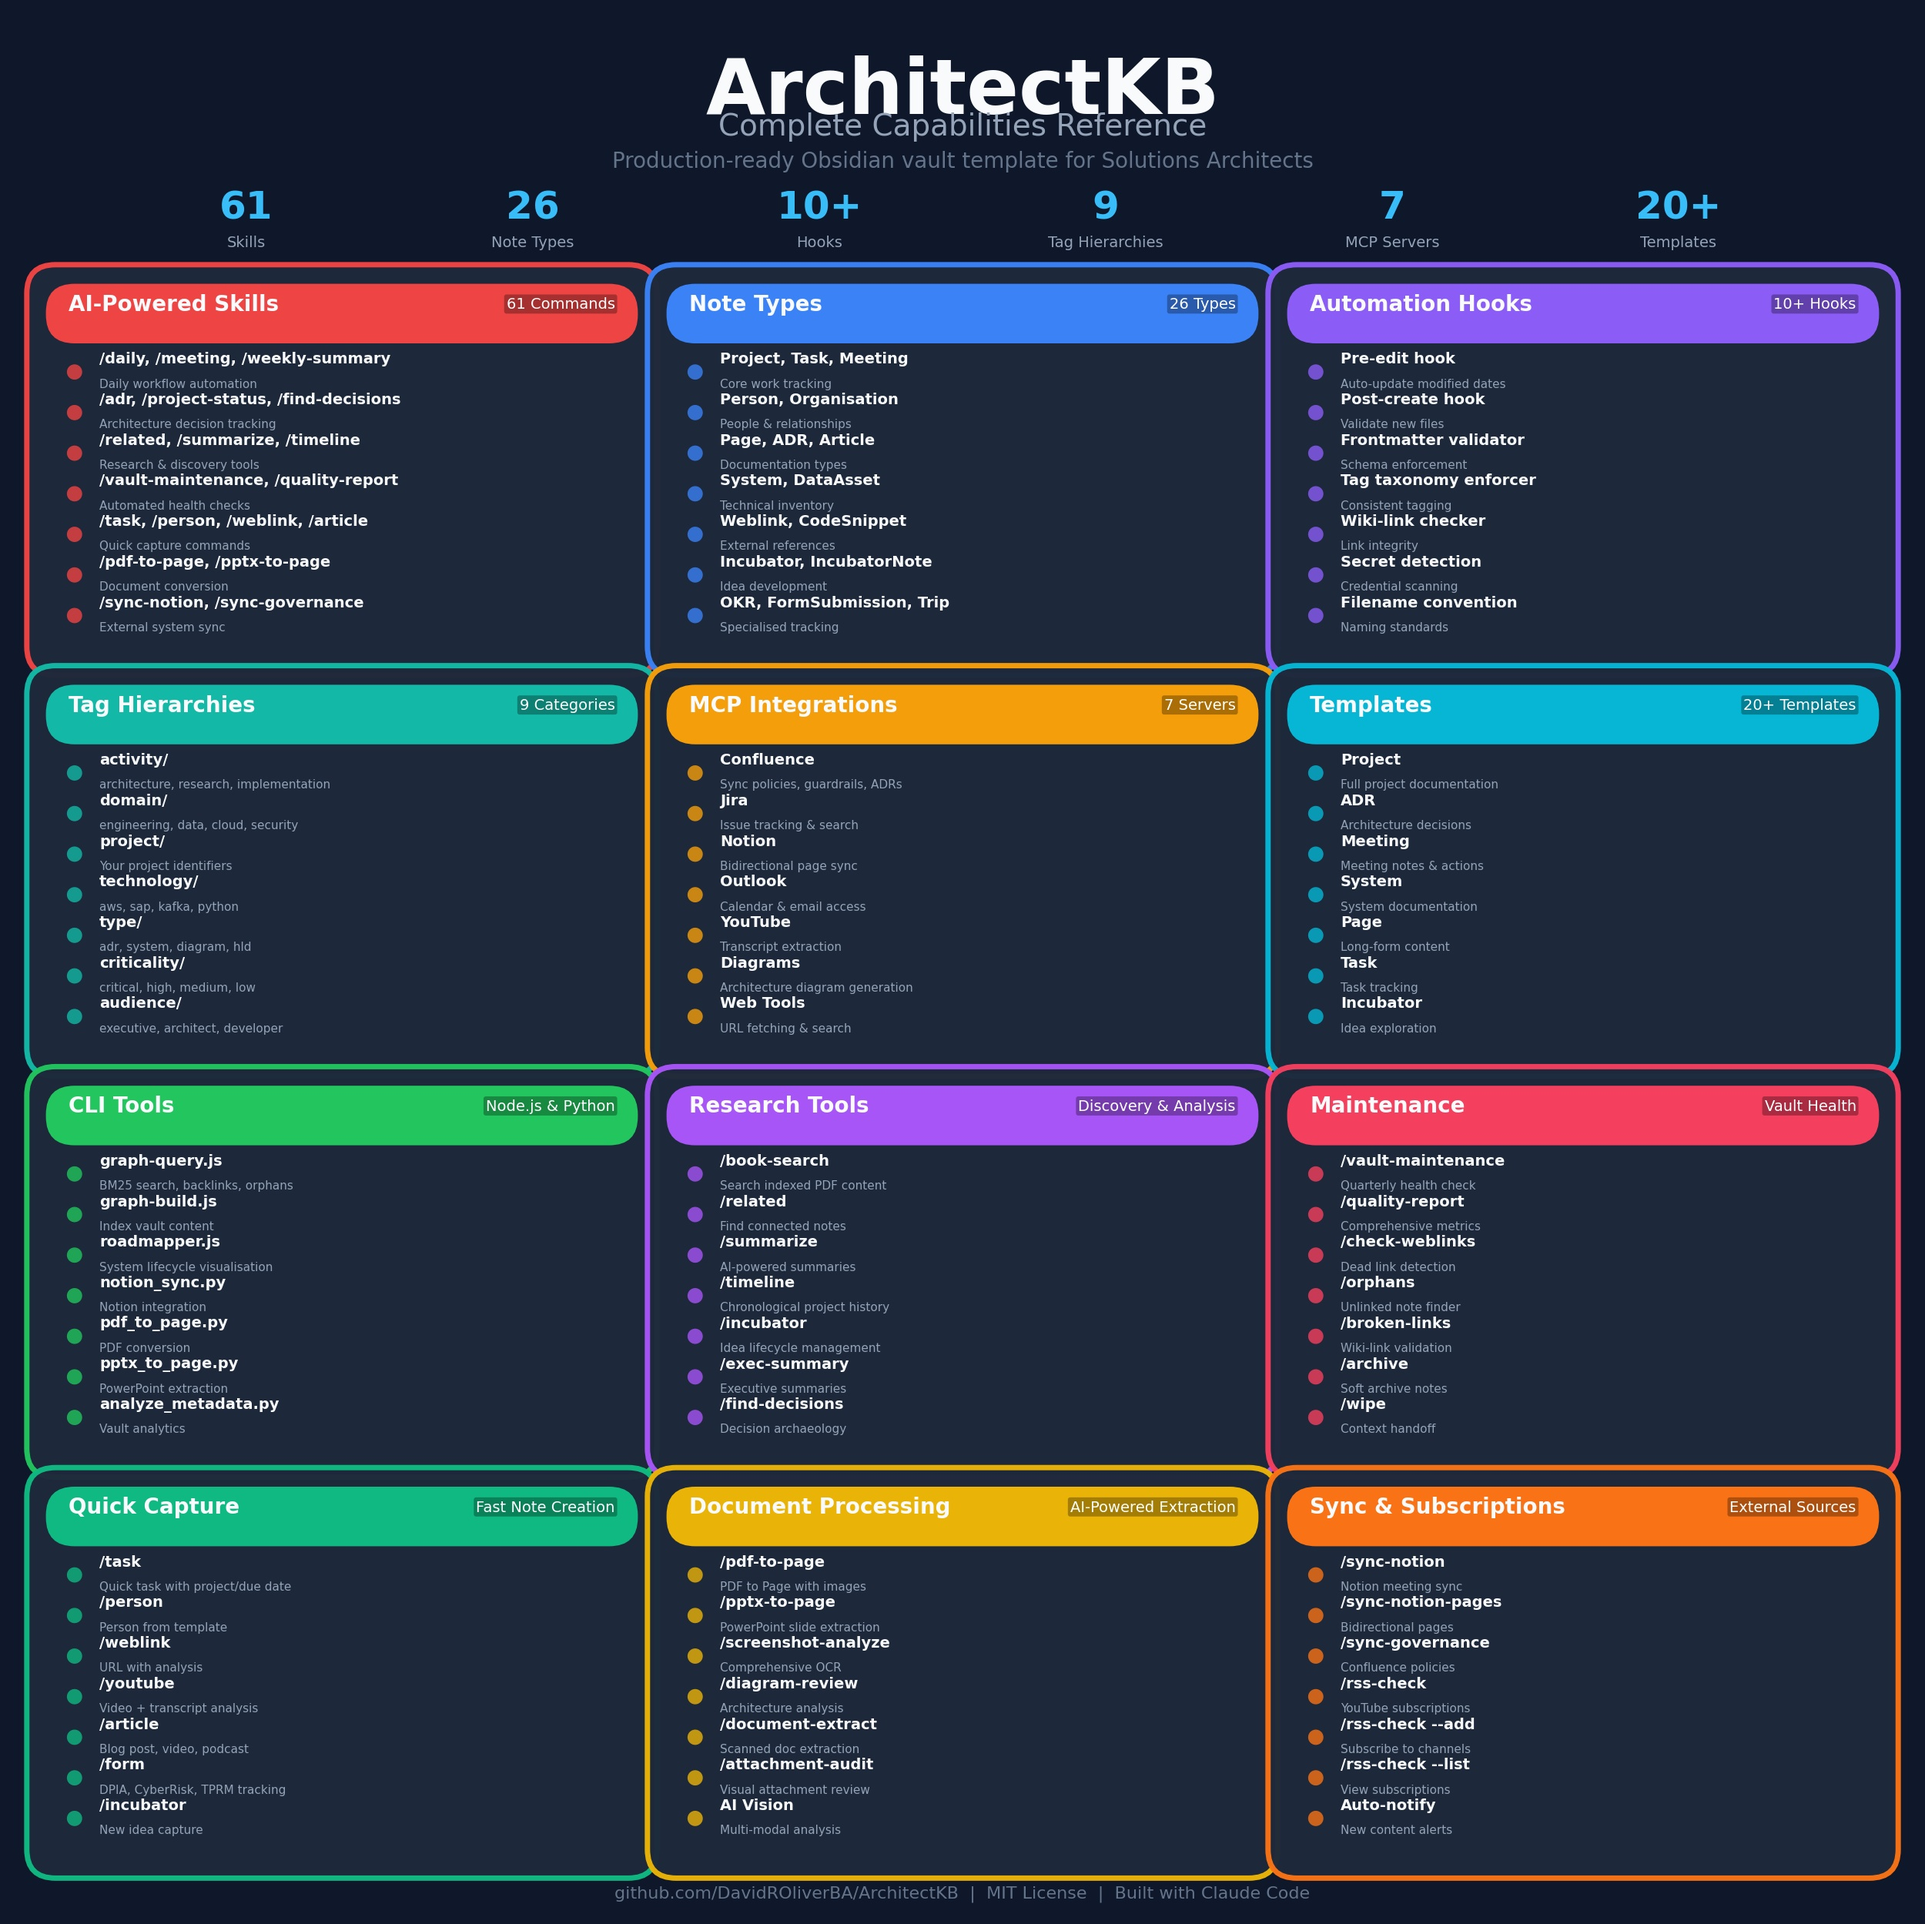
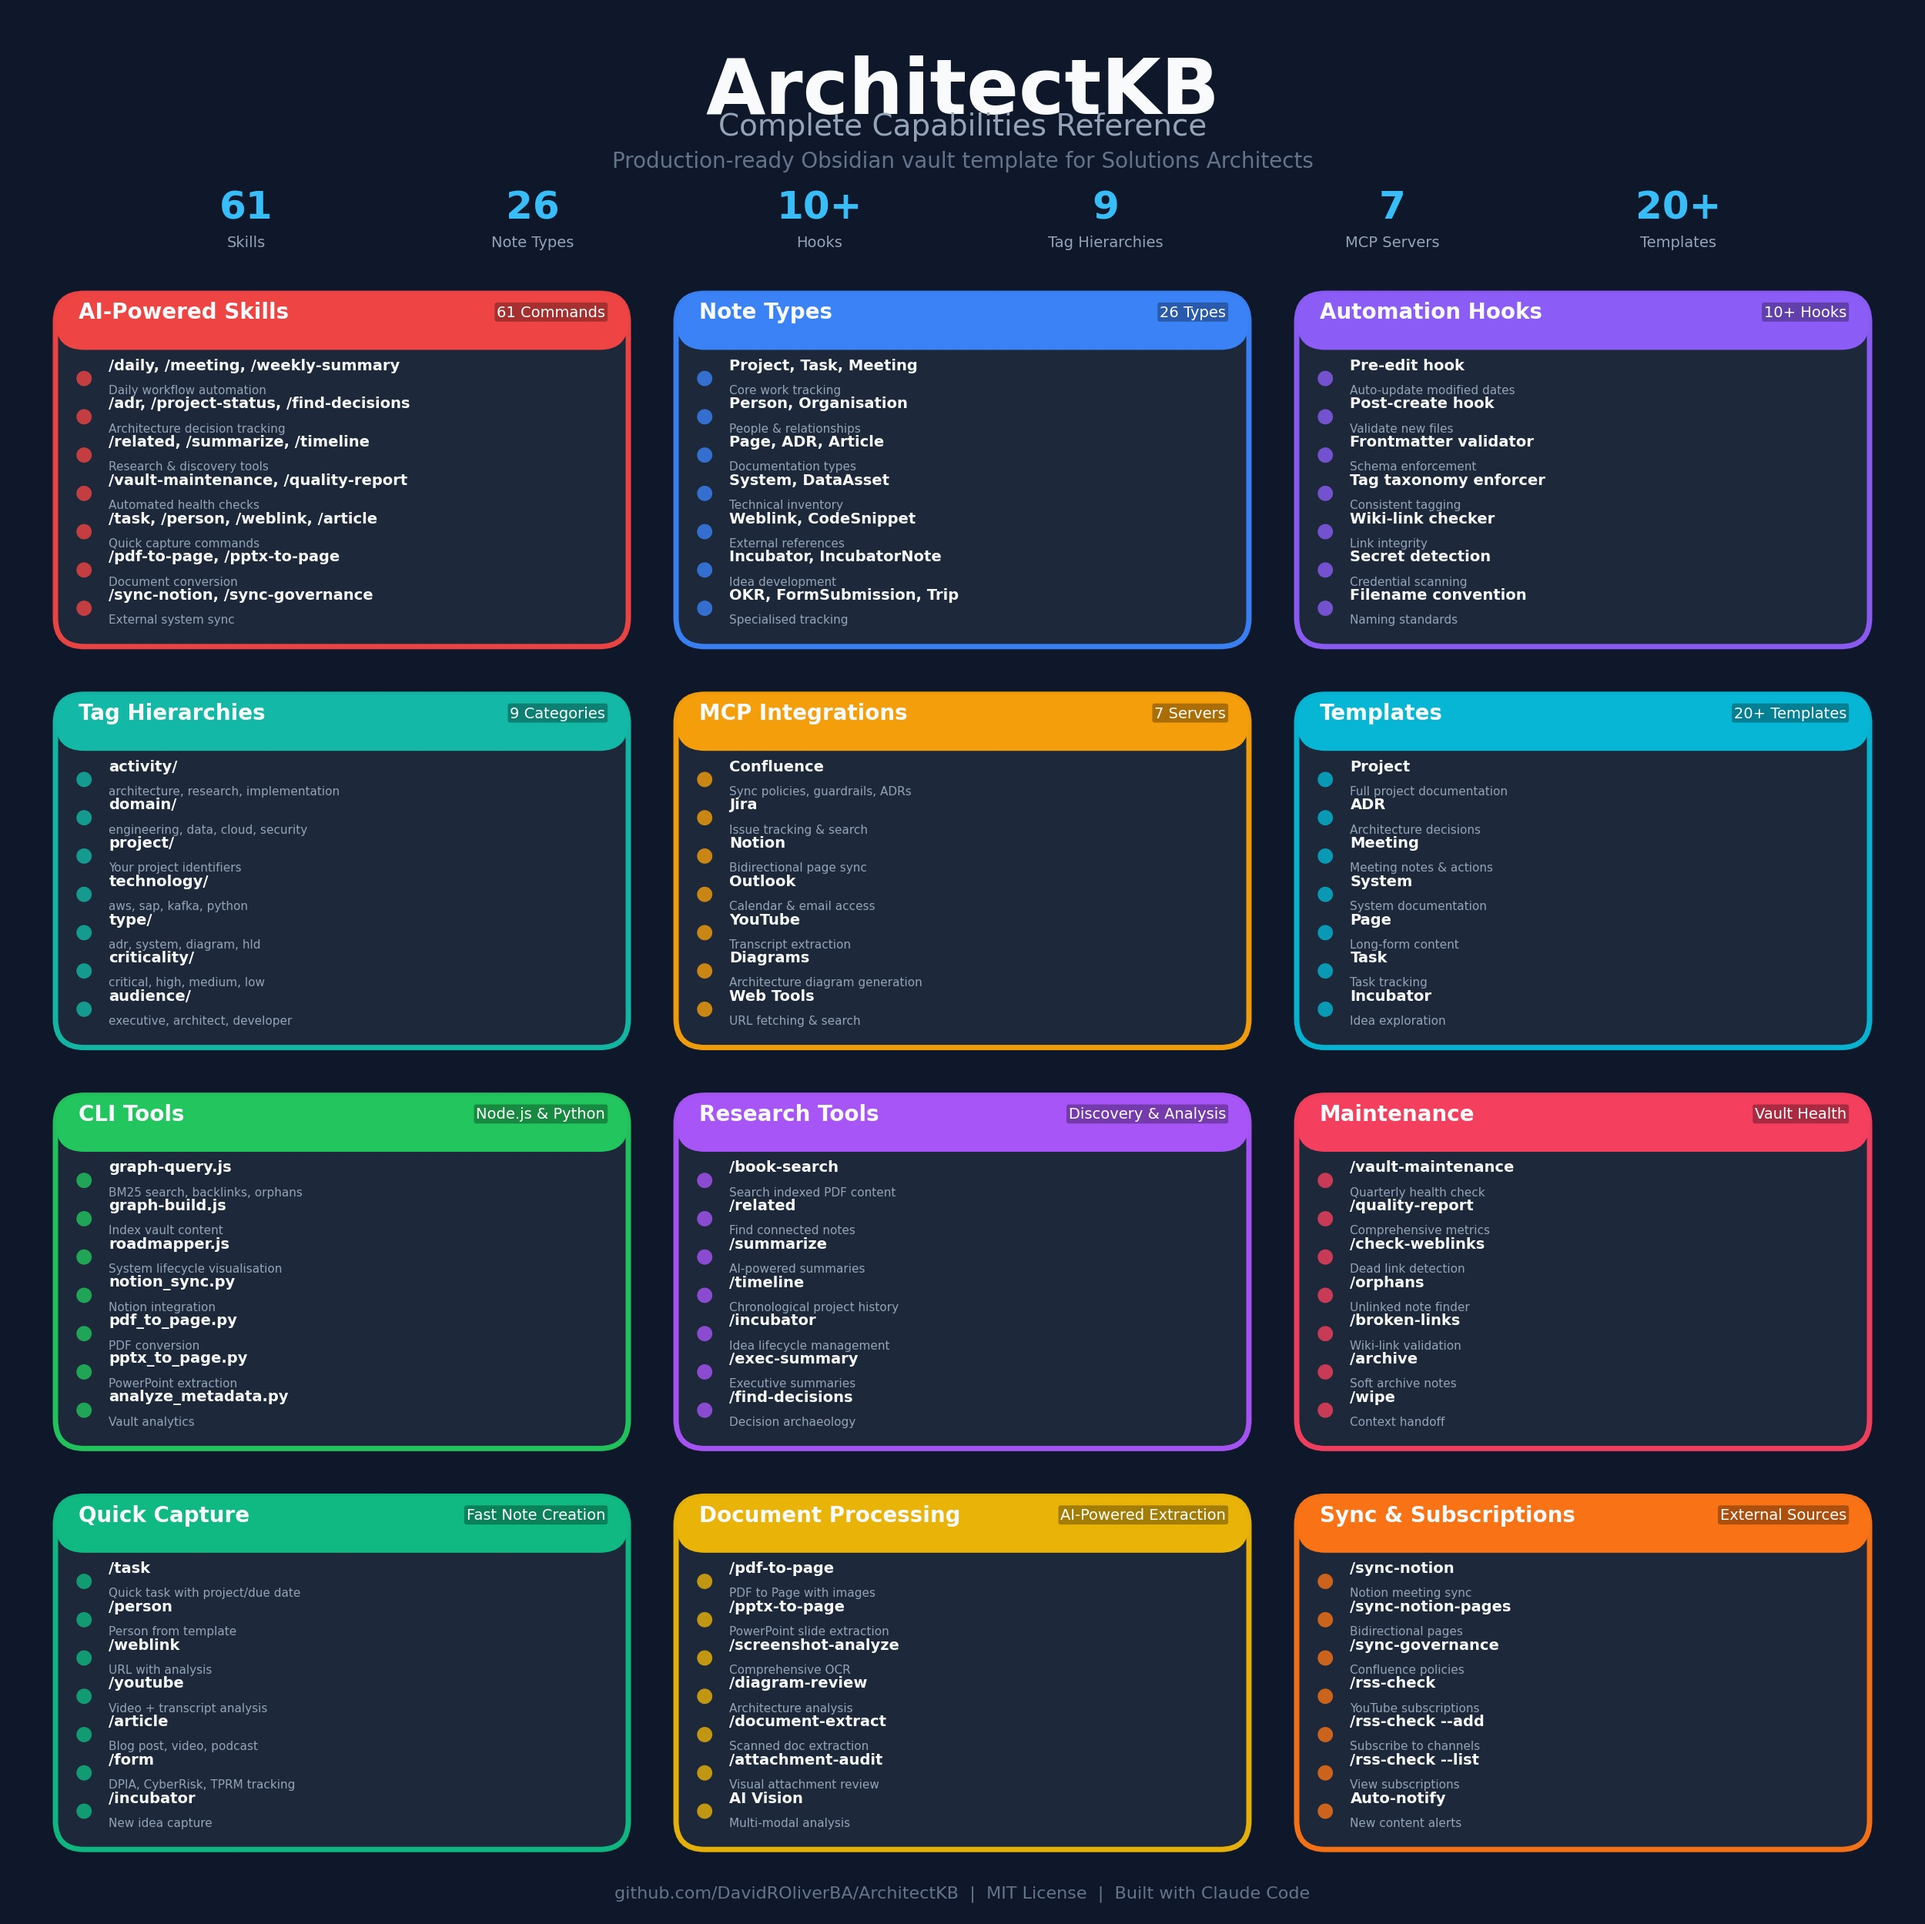
Fix infographic card overlap by insetting borders
- Added 0.005 inset on each side of cards
- Borders now draw inside allocated space, preventing overlap
- Updated all text positioning to use inset coordinates

Changed region(s): [[0.0, 0.1248, 0.9984, 0.9988]]

diff --git a/scripts/generate_infographic.py b/scripts/generate_infographic.py
@@ -226,10 +226,17 @@ FEATURES = {
 def draw_card(ax, x, y, width, height, feature_key, feature_data):
     """Draw a single feature card with title and items."""
 
+    # Inset the border by 0.005 on each side to prevent overlap
+    inset = 0.005
+    x_inset = x + inset
+    y_inset = y + inset
+    width_inset = width - 2 * inset
+    height_inset = height - 2 * inset
+
     # Card background with rounded corners
     card = FancyBboxPatch(
-        (x, y), width, height,
-        boxstyle="round,pad=0.01,rounding_size=0.015",
+        (x_inset, y_inset), width_inset, height_inset,
+        boxstyle="round,pad=0,rounding_size=0.015",
         facecolor=COLORS['card_bg'],
         edgecolor=feature_data['color'],
         linewidth=2.5,
@@ -238,9 +245,9 @@ def draw_card(ax, x, y, width, height, feature_key, feature_data):
     ax.add_patch(card)
 
     # Header bar
-    header_height = height * 0.16
+    header_height = height_inset * 0.16
     header = FancyBboxPatch(
-        (x, y + height - header_height), width, header_height,
+        (x_inset, y_inset + height_inset - header_height), width_inset, header_height,
         boxstyle="round,pad=0,rounding_size=0.015",
         facecolor=feature_data['color'],
         edgecolor='none',
@@ -249,37 +256,37 @@ def draw_card(ax, x, y, width, height, feature_key, feature_data):
     ax.add_patch(header)
 
     # Title in header (left side)
-    header_y = y + height - header_height/2
-    ax.text(x + 0.012, header_y + 0.005, feature_data['title'],
+    header_y = y_inset + height_inset - header_height/2
+    ax.text(x_inset + 0.012, header_y + 0.005, feature_data['title'],
             fontsize=10, fontweight='bold', color=COLORS['text_white'],
             va='center', ha='left')
     # Subtitle/count badge (right side)
-    ax.text(x + width - 0.012, header_y + 0.005, feature_data['subtitle'],
+    ax.text(x_inset + width_inset - 0.012, header_y + 0.005, feature_data['subtitle'],
             fontsize=7, color='white',
             va='center', ha='right',
             bbox=dict(boxstyle='round,pad=0.15', facecolor='black', alpha=0.3, edgecolor='none'))
 
     # Items list - use full height
     items = feature_data['items']
-    content_height = height - header_height - 0.015
+    content_height = height_inset - header_height - 0.015
     item_height = content_height / len(items)
-    item_start_y = y + height - header_height - 0.012
+    item_start_y = y_inset + height_inset - header_height - 0.012
 
     for i, (marker, name, desc) in enumerate(items):
         item_y = item_start_y - i * item_height
 
         # Colored bullet
-        bullet = Circle((x + 0.015, item_y - 0.003), 0.004,
+        bullet = Circle((x_inset + 0.015, item_y - 0.003), 0.004,
                         facecolor=feature_data['color'], edgecolor='none', alpha=0.8)
         ax.add_patch(bullet)
 
         # Name (bold, larger)
-        ax.text(x + 0.028, item_y + 0.004, name,
+        ax.text(x_inset + 0.028, item_y + 0.004, name,
                 fontsize=7, fontweight='bold', color=COLORS['text_white'],
                 va='center', ha='left')
 
         # Description (lighter, below name)
-        ax.text(x + 0.028, item_y - 0.009, desc,
+        ax.text(x_inset + 0.028, item_y - 0.009, desc,
                 fontsize=5.5, color=COLORS['text_light'],
                 va='center', ha='left')
 
